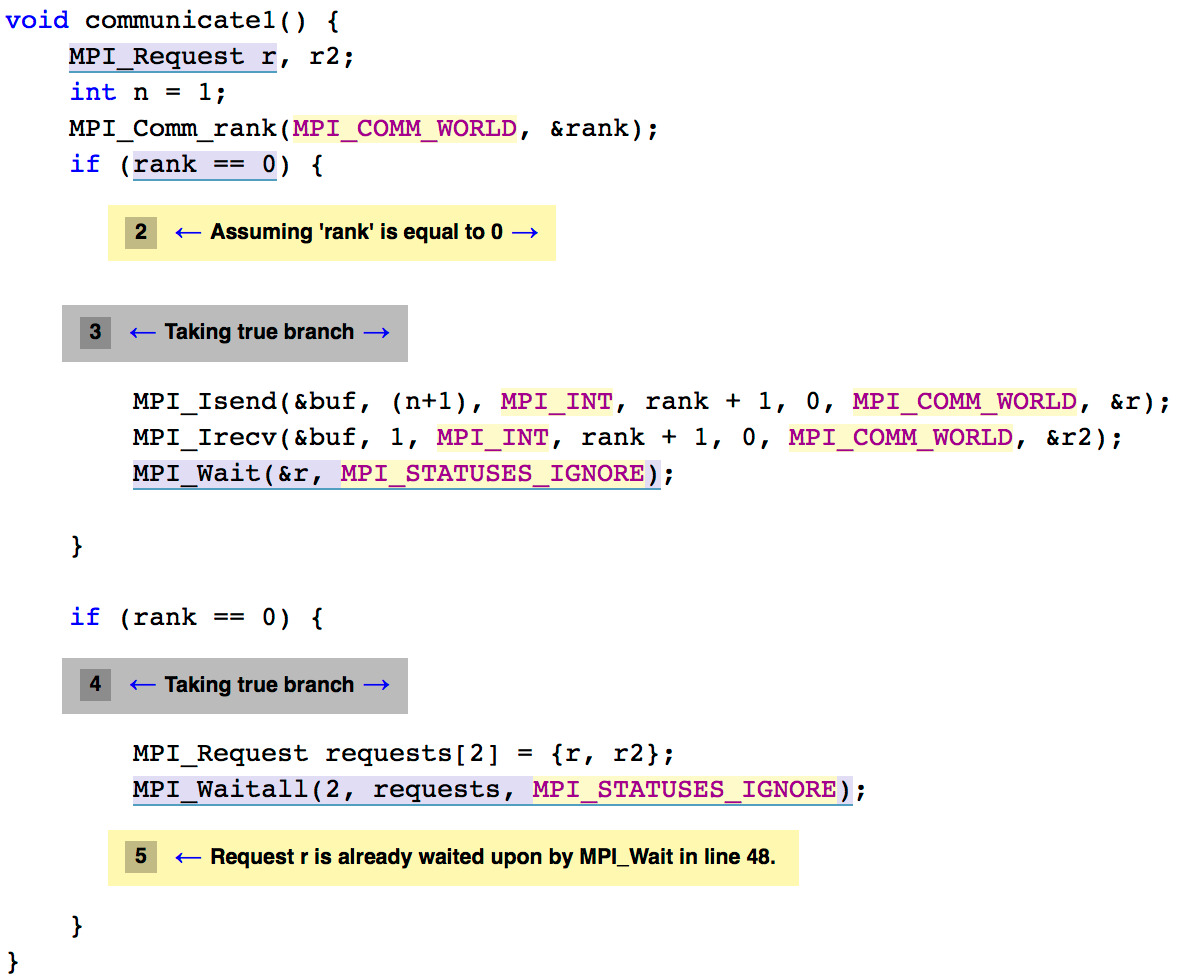
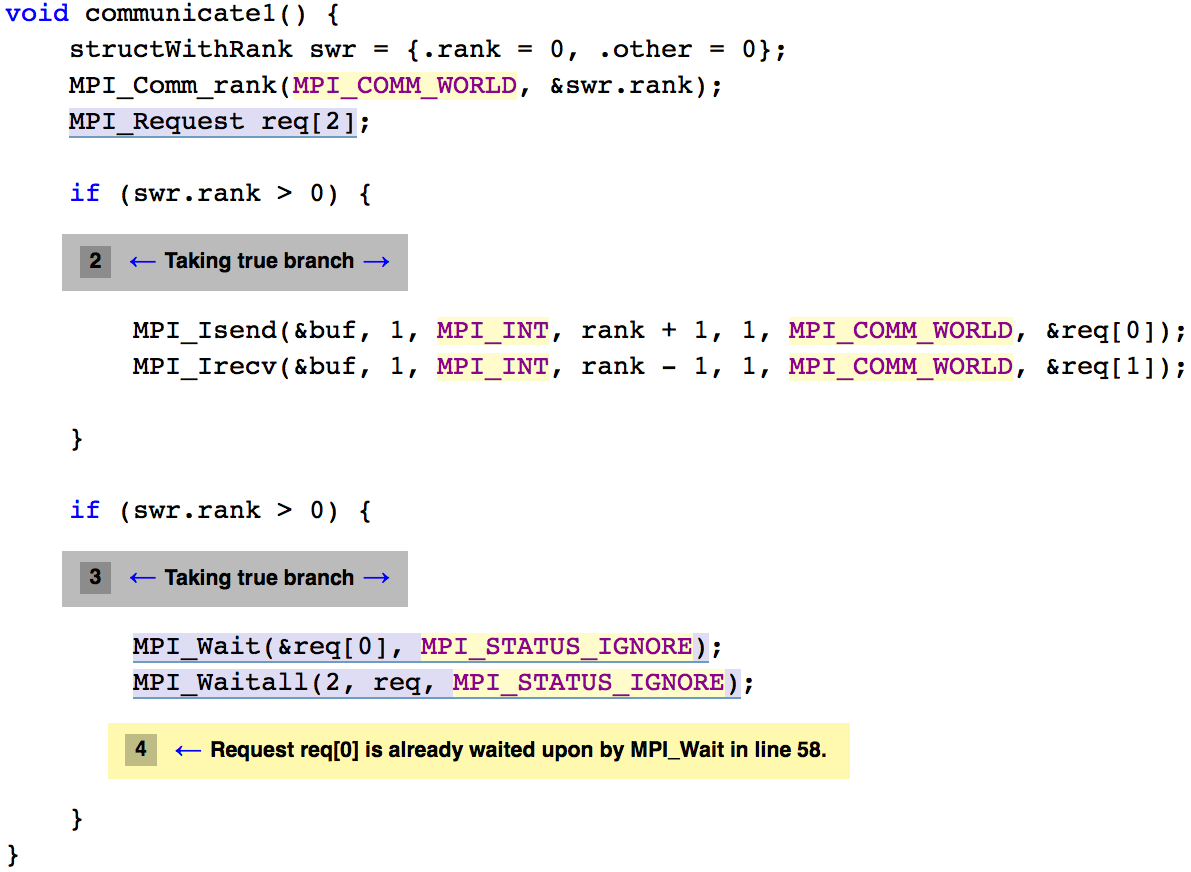
track request variables by memory region

diff --git a/src/MPIBugReporter.cpp b/src/MPIBugReporter.cpp
@@ -182,15 +182,15 @@ void MPIBugReporter::reportDoubleNonblocking(
     std::string lastUser =
         requestVar.lastUser_->getCalleeIdentifier()->getName();
 
-    std::string errorText{
-        "Request "
-        "is already in use by nonblocking call " +
-        lastUser + " in line " + lineNo + ". "};
+    std::string errorText{"Request " + requestVar.variableName() +
+                          " is already in use by nonblocking call " + lastUser +
+                          " in line " + lineNo + ". "};
 
     auto bugReport = llvm::make_unique<BugReport>(*doubleNonblockingBugType_,
                                                   errorText, node);
     bugReport->addRange(observedCall.getSourceRange());
     bugReport->addRange(requestVar.lastUser_->getSourceRange());
+    bugReport->addRange(util::sourceRange(requestVar.memRegion_));
     bugReporter_.emitReport(std::move(bugReport));
 }
 
@@ -207,15 +207,15 @@ void MPIBugReporter::reportDoubleWait(const CallEvent &observedCall,
     std::string lineNo{lineNumber(requestVar.lastUser_)};
     std::string lastUser =
         requestVar.lastUser_->getCalleeIdentifier()->getName();
-    std::string errorText{
-        "Request "
-        "is already waited upon by " +
-        lastUser + " in line " + lineNo + ". "};
+    std::string errorText{"Request " + requestVar.variableName() +
+                          " is already waited upon by " + lastUser +
+                          " in line " + lineNo + ". "};
 
     auto bugReport =
         llvm::make_unique<BugReport>(*doubleWaitBugType_, errorText, node);
     bugReport->addRange(observedCall.getSourceRange());
     bugReport->addRange(requestVar.lastUser_->getSourceRange());
+    bugReport->addRange(util::sourceRange(requestVar.memRegion_));
     bugReporter_.emitReport(std::move(bugReport));
 }
 
@@ -227,9 +227,9 @@ void MPIBugReporter::reportDoubleWait(const CallEvent &observedCall,
  */
 void MPIBugReporter::reportMissingWait(const RequestVar &requestVar,
                                        const ExplodedNode *const node) const {
-    std::string errorText{
-        "Nonblocking call using request "
-        "has no matching wait. "};
+    std::string errorText{"Nonblocking call using request " +
+                          requestVar.variableName() +
+                          " has no matching wait. "};
 
     PathDiagnosticLocation p{
         requestVar.lastUser_->getOriginExpr()->getLocStart(),
@@ -238,6 +238,7 @@ void MPIBugReporter::reportMissingWait(const RequestVar &requestVar,
     auto bugReport =
         llvm::make_unique<BugReport>(*missingWaitBugType_, errorText, p);
     bugReport->addRange(requestVar.lastUser_->getSourceRange());
+    bugReport->addRange(util::sourceRange(requestVar.memRegion_));
     bugReporter_.emitReport(std::move(bugReport));
 }
 
@@ -248,15 +249,16 @@ void MPIBugReporter::reportMissingWait(const RequestVar &requestVar,
  * @param requestVar
  * @param node
  */
-void MPIBugReporter::reportUnmatchedWait(const CallEvent &callEvent,
-                                         const ExplodedNode *const node) const {
-    std::string errorText{
-        "Request used"
-        " has no matching nonblocking call. "};
+void MPIBugReporter::reportUnmatchedWait(
+    const CallEvent &callEvent, const clang::ento::MemRegion *requestRegion,
+    const ExplodedNode *const node) const {
+    std::string errorText{"Request " + util::variableName(requestRegion) +
+                          " has no matching nonblocking call. "};
 
     auto bugReport =
         llvm::make_unique<BugReport>(*unmatchedWaitBugType_, errorText, node);
     bugReport->addRange(callEvent.getSourceRange());
+    bugReport->addRange(util::sourceRange(requestRegion));
     bugReporter_.emitReport(std::move(bugReport));
 }
 

diff --git a/tests/integration_tests/MPICheckerTest.c b/tests/integration_tests/MPICheckerTest.c
@@ -42,15 +42,15 @@ void doubleWait() {
     int rank = 0;
     double buf = 0;
     MPI_Comm_rank(MPI_COMM_WORLD, &rank);
-    if (rank == 0) {
-    } else {
-        MPI_Request sendReq1,  recvReq1;
 
-        MPI_Isend(&buf, 1, MPI_DOUBLE, rank + 1, 1, MPI_COMM_WORLD, &sendReq1);
-        MPI_Irecv(&buf, 1, MPI_DOUBLE, rank - 1, 1, MPI_COMM_WORLD, &recvReq1);
+    if (rank > 0) {
+        MPI_Request req[2];
 
-        MPI_Wait(&sendReq1, MPI_STATUS_IGNORE); // TODO rebuild with waitall
-        MPI_Wait(&recvReq1, MPI_STATUS_IGNORE);
+        MPI_Isend(&buf, 1, MPI_DOUBLE, rank + 1, 1, MPI_COMM_WORLD, &req[0]);
+        MPI_Irecv(&buf, 1, MPI_DOUBLE, rank - 1, 1, MPI_COMM_WORLD, &req[1]);
+
+        MPI_Wait(&req[0], MPI_STATUS_IGNORE);
+        MPI_Waitall(2, req,  MPI_STATUS_IGNORE); // expected-warning{{Request req[0] is already waited upon by MPI_Wait in line 52.}}
     }
 }
 
@@ -65,7 +65,7 @@ void doubleWait2() {
         MPI_Irecv(&buf, 1, MPI_DOUBLE, rank - 1, 2, MPI_COMM_WORLD, &recvReq1);
         MPI_Wait(&sendReq1, MPI_STATUS_IGNORE);
         MPI_Wait(&recvReq1, MPI_STATUS_IGNORE);
-        MPI_Wait(&recvReq1, MPI_STATUS_IGNORE); // expected-warning{{Request is already waited upon by MPI_Wait in line 67.}}
+        MPI_Wait(&recvReq1, MPI_STATUS_IGNORE); // expected-warning{{Request recvReq1 is already waited upon by MPI_Wait in line 67.}}
     }
 }
 
@@ -77,7 +77,7 @@ void missingWait() {
     } else {
         MPI_Request sendReq1,  recvReq1;
 
-        MPI_Isend(&buf, 1, MPI_DOUBLE, rank + 1, 3, MPI_COMM_WORLD, &sendReq1); // expected-warning{{Nonblocking call using request has no matching wait. }}
+        MPI_Isend(&buf, 1, MPI_DOUBLE, rank + 1, 3, MPI_COMM_WORLD, &sendReq1); // expected-warning{{Nonblocking call using request sendReq1 has no matching wait. }}
         MPI_Irecv(&buf, 1, MPI_DOUBLE, rank - 1, 3, MPI_COMM_WORLD, &recvReq1);
         MPI_Wait(&recvReq1, MPI_STATUS_IGNORE);
     }
@@ -92,7 +92,7 @@ void doubleNonblocking() {
         MPI_Request sendReq1;
 
         MPI_Isend(&buf, 1, MPI_DOUBLE, rank + 1, 4, MPI_COMM_WORLD, &sendReq1);
-        MPI_Irecv(&buf, 1, MPI_DOUBLE, rank - 1, 4, MPI_COMM_WORLD, &sendReq1); // expected-warning{{Request is already in use by nonblocking call MPI_Isend in line 94. }}
+        MPI_Irecv(&buf, 1, MPI_DOUBLE, rank - 1, 4, MPI_COMM_WORLD, &sendReq1); // expected-warning{{Request sendReq1 is already in use by nonblocking call MPI_Isend in line 94. }}
         MPI_Wait(&sendReq1, MPI_STATUS_IGNORE);
     }
 }
@@ -104,7 +104,7 @@ void doubleNonblocking2() {
 
     MPI_Request req;
     MPI_Ireduce(MPI_IN_PLACE, &buf, 1, MPI_DOUBLE, MPI_SUM, 5, MPI_COMM_WORLD, &req);
-    MPI_Ireduce(MPI_IN_PLACE, &buf, 1, MPI_DOUBLE, MPI_SUM, 5, MPI_COMM_WORLD, &req); // expected-warning{{Request is already in use by nonblocking call MPI_Ireduce in line 106. }}
+    MPI_Ireduce(MPI_IN_PLACE, &buf, 1, MPI_DOUBLE, MPI_SUM, 5, MPI_COMM_WORLD, &req); // expected-warning{{Request req is already in use by nonblocking call MPI_Ireduce in line 106. }}
     MPI_Wait(&req, MPI_STATUS_IGNORE);
 }
 
@@ -113,7 +113,7 @@ void missingNonBlocking() {
     MPI_Comm_rank(MPI_COMM_WORLD, &rank);
     if (rank == 1) {
         MPI_Request sendReq1;
-        MPI_Wait(&sendReq1, MPI_STATUS_IGNORE); // expected-warning{{Request used has no matching nonblocking call.}}
+        MPI_Wait(&sendReq1, MPI_STATUS_IGNORE); // expected-warning{{Request sendReq1 has no matching nonblocking call.}}
     }
 }
 

diff --git a/examples/cmake/basic/basic.c b/examples/cmake/basic/basic.c
@@ -32,6 +32,7 @@
 
 double fnn() { return 22.22; }
 int f2n() { return 22; }
+int f() { return rand(); }
 
 int rank;
 int buf;
@@ -39,50 +40,41 @@ int N = 0;
 
 typedef struct {
     int rank;
-    int rna;
-}basic_t ;
-
-int f() { return rand(); }
+    int other;
+} structWithRank;
 
 void communicate1() {
-    /* MPI_Request req1, req2; */
-    MPI_Request arr[3];
+    structWithRank swr = {.rank = 0, .other = 0};
+    MPI_Comm_rank(MPI_COMM_WORLD, &swr.rank);
+    MPI_Request req[2];
 
-    basic_t bt = {.rank = 0, .rna = 0};
-
-    MPI_Comm_rank(MPI_COMM_WORLD, &bt.rank);
-    MPI_Comm_rank(MPI_COMM_WORLD, &rank);
-
-    if (bt.rank > 0) {
-        MPI_Isend(&buf, 1, MPI_INT, rank + 1, 0, MPI_COMM_WORLD, &arr[0]);
-        MPI_Irecv(&buf, 1, MPI_INT, rank - 1, 0, MPI_COMM_WORLD, &arr[1]);
-        /* MPI_Wait(&arr[1], MPI_STATUS_IGNORE); */
-
-        MPI_Waitall(2, arr, MPI_STATUSES_IGNORE);
-
-        /* MPI_Irecv(&buf, 1, MPI_INT, rank - 1, 0, MPI_COMM_WORLD, &arr[1]); */
-        /* MPI_Wait(&arr[0], MPI_STATUS_IGNORE); */
-        /* MPI_Wait(&arr[1], MPI_STATUS_IGNORE); */
-
-        /* MPI_Request r[2] = {req1, req2}; */
-        /* MPI_Waitall(2, r, MPI_STATUSES_IGNORE); */
+    if (swr.rank > 0) {
+        MPI_Isend(&buf, 1, MPI_INT, rank + 1, 1, MPI_COMM_WORLD, &req[0]);
+        MPI_Irecv(&buf, 1, MPI_INT, rank - 1, 1, MPI_COMM_WORLD, &req[1]);
 
     }
-    /* else if (22 != 33 && rank == 1) { */
 
-        /* MPI_Irecv(&buf, 1, MPI_INT, rank - 1, 0, MPI_COMM_WORLD, &req1); */
-        /* MPI_Irecv(&buf, 1, MPI_INT, rank - 1, 0, MPI_COMM_WORLD, &req2); */
+    if (swr.rank > 0) {
+        MPI_Wait(&req[0], MPI_STATUS_IGNORE);
+        MPI_Waitall(2, req, MPI_STATUS_IGNORE);
+    }
+}
 
-        /* MPI_Request r[2] = {req1, req2}; */
-        /* MPI_Waitall(2, r, MPI_STATUSES_IGNORE); */
+void communicate2() {
+    MPI_Comm_rank(MPI_COMM_WORLD, &rank);
 
-        /* MPI_Wait(&req1, MPI_STATUS_IGNORE); */
-    /* } */
+    if (rank > 0) {
+        MPI_Send(&buf, 1, MPI_DOUBLE, rank + 1, 1, MPI_COMM_WORLD);
+    } else {
+        MPI_Recv(&buf, 1, MPI_INT, rank - 1, 2, MPI_COMM_WORLD,
+                 MPI_STATUS_IGNORE);
+    }
 }
 
 int main(int argc, char *argv[]) {
     MPI_Init(&argc, &argv);
     communicate1();
+    communicate2();
 
     MPI_Finalize();
     return 0;

diff --git a/src/Utility.cpp b/src/Utility.cpp
@@ -58,6 +58,48 @@ clang::StringRef sourceRangeAsStringRef(
                                        clang::LangOptions());
 }
 
+
+clang::SourceRange sourceRange(const clang::ento::MemRegion *memRegion) {
+    const clang::ento::VarRegion *varRegion =
+        clang::dyn_cast<clang::ento::VarRegion>(memRegion->getBaseRegion());
+
+    return varRegion->getDecl()->getSourceRange();
+}
+
+std::string variableName(const clang::ento::MemRegion *memRegion) {
+    const clang::ento::VarRegion *varRegion =
+        clang::dyn_cast<clang::ento::VarRegion>(memRegion->getBaseRegion());
+
+    if (varRegion) {
+        std::string varName = varRegion->getDecl()->getNameAsString();
+
+        bool isElementInArray = varRegion->getValueType()->isArrayType();
+        auto elementRegion = memRegion->getAs<clang::ento::ElementRegion>();
+
+        llvm::APSInt indexInArray;
+
+        if (elementRegion) {
+            indexInArray = elementRegion->getIndex()
+                               .getAs<clang::ento::nonloc::ConcreteInt>()
+                               ->getValue();
+        }
+
+        if (isElementInArray) {
+            llvm::SmallVector<char, 2> intValAsString;
+            indexInArray.toString(intValAsString);
+            std::string idx;
+            for (char c : intValAsString) {
+                idx.push_back(c);
+            }
+            return varName + "[" + idx + "]";
+        } else {
+            return varName;
+        }
+    } else {
+        return "";
+    }
+}
+
 const clang::IdentifierInfo *getIdentInfo(const clang::CallExpr *callExpr) {
     if (callExpr->getDirectCallee()) {
         return callExpr->getDirectCallee()->getIdentifier();

diff --git a/src/MPITypes.hpp b/src/MPITypes.hpp
@@ -146,18 +146,7 @@ struct RequestVar {
     RequestVar(const clang::ento::MemRegion *const memRegion,
                const clang::ento::CallEventRef<> callEvent, size_t index = 0)
         : memRegion_{memRegion}, lastUser_{callEvent} {
-        const clang::ento::VarRegion *varRegion =
-            clang::dyn_cast<clang::ento::VarRegion>(memRegion->getBaseRegion());
-
-        variableName_ = varRegion->getDecl()->getNameAsString();
-        isElementInArray_ = varRegion->getValueType()->isArrayType();
-
-        auto elementRegion = memRegion->getAs<clang::ento::ElementRegion>();
-        if (elementRegion) {
-            indexInArray_ = elementRegion->getIndex()
-                                .getAs<clang::ento::nonloc::ConcreteInt>()
-                                ->getValue();
-        }
+        variableName_ = util::variableName(memRegion);
     }
 
     void Profile(llvm::FoldingSetNodeID &id) const {
@@ -172,12 +161,13 @@ struct RequestVar {
     const clang::ento::MemRegion *const memRegion_;
     const clang::ento::CallEventRef<> lastUser_;
 
+    std::string variableName() const { return variableName_; }
+
+private:
     std::string variableName_;
-    bool isElementInArray_;
-    llvm::APSInt indexInArray_;
 };
 }  // end of namespace: mpi
-// TODO track request arrays (check bind?)
+// TODO track request assignments
 
 // register data structure for path sensitive analysis
 REGISTER_MAP_WITH_PROGRAMSTATE(RequestVarMap, const clang::ento::MemRegion *,

diff --git a/src/MPIBugReporter.hpp b/src/MPIBugReporter.hpp
@@ -69,6 +69,7 @@ public:
                            const clang::ento::ExplodedNode *const) const;
 
     void reportUnmatchedWait(const clang::ento::CallEvent &,
+                             const clang::ento::MemRegion *,
                              const clang::ento::ExplodedNode *const) const;
 
     void reportDoubleWait(const clang::ento::CallEvent &, const RequestVar &,

diff --git a/src/Utility.hpp b/src/Utility.hpp
@@ -60,6 +60,9 @@ std::vector<std::string> split(const std::string &, char);
  */
 const clang::IdentifierInfo *getIdentInfo(const clang::CallExpr *);
 
+std::string variableName(const clang::ento::MemRegion *);
+clang::SourceRange sourceRange(const clang::ento::MemRegion *);
+
 }  // end of namespace: util
 
 #endif  // end of include guard: UTILITY_HPP_SVQZWTL8

diff --git a/src/MPICheckerPathSensitive.cpp b/src/MPICheckerPathSensitive.cpp
@@ -136,7 +136,7 @@ void MPICheckerPathSensitive::checkWaitUsage(
         }
         // no matching nonblocking call
         else {
-            bugReporter_.reportUnmatchedWait(callEvent, node);
+            bugReporter_.reportUnmatchedWait(callEvent, requestRegion, node);
         }
     }
 
